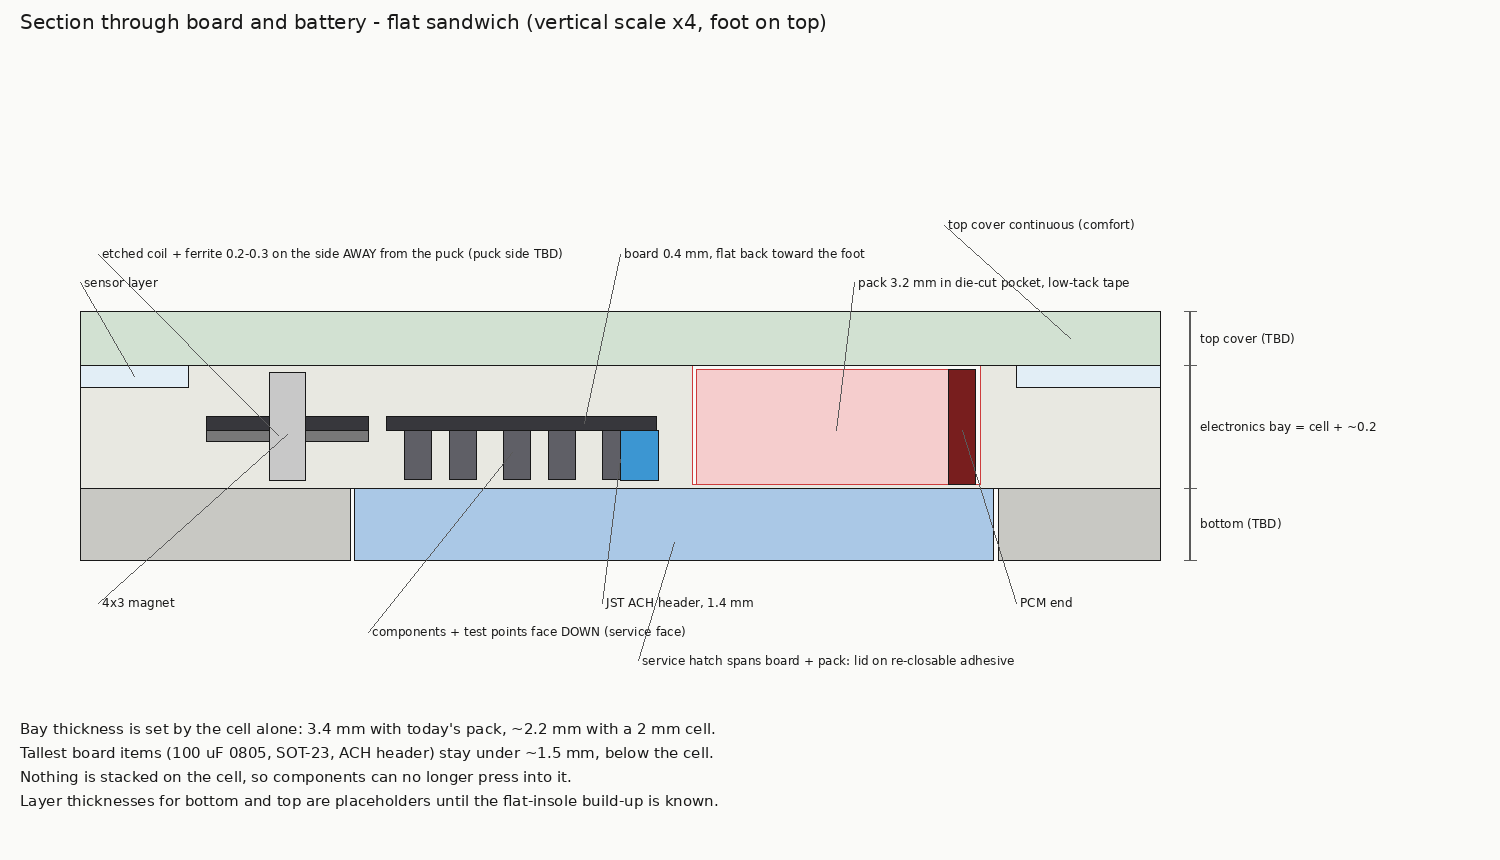
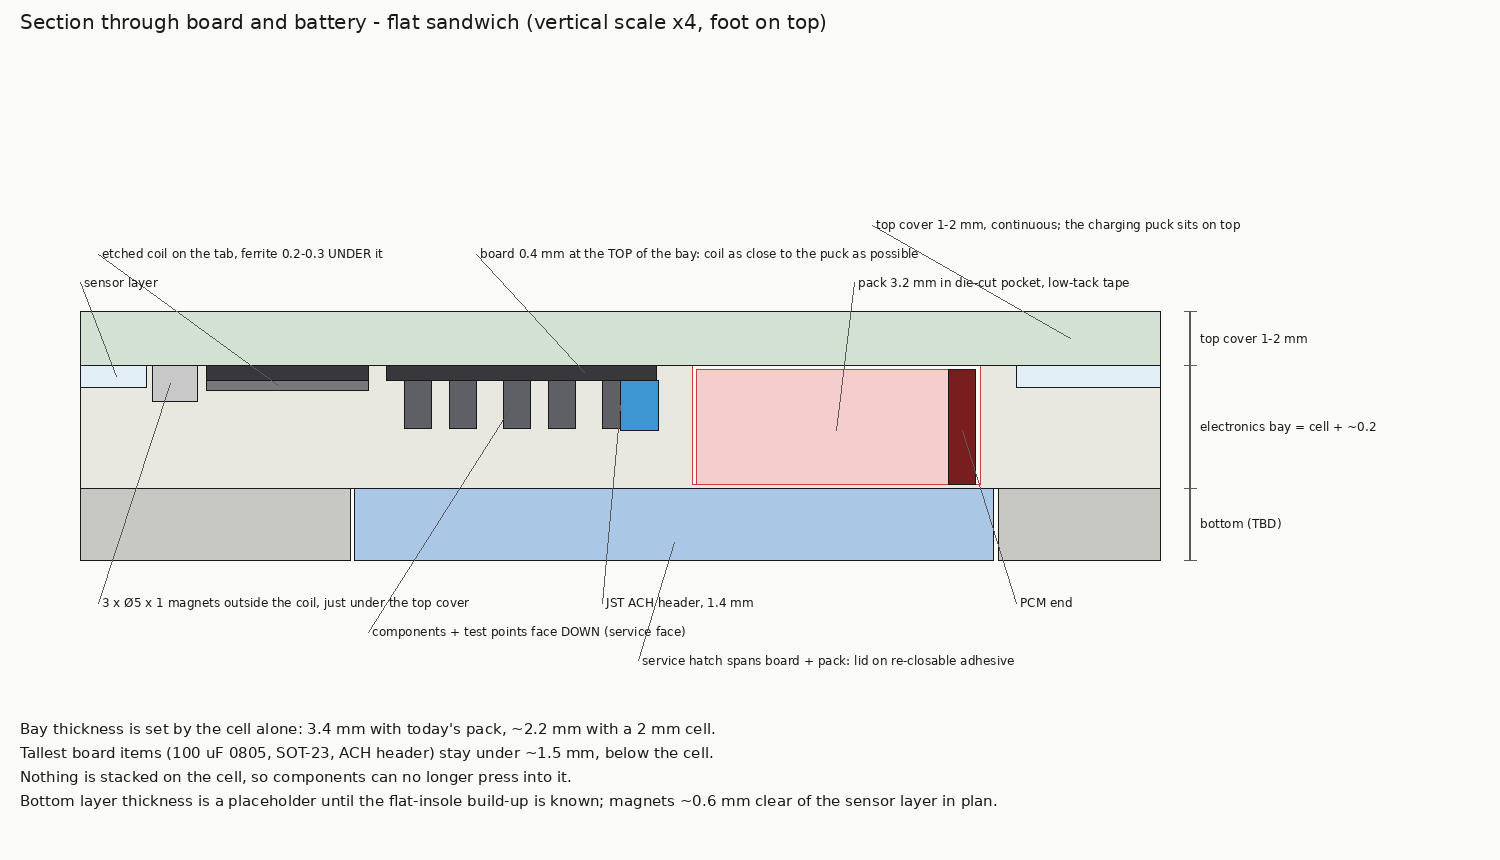
Top charging: magnets at 1-2 mm gap, board at top of bay, charging-speed levers
Puck charges from the top through a 1-2 mm cover (puck magnet flush with
its lid). Ferrite under the coil, board flush under the cover. 3x dia5x1 N52
discs on the free arc give ~1.5x today's pull/centring at 1-2 mm and fit.
Charging speed: the link (~20 mW) is the bottleneck by ~7x; ranked levers,
incl. the etched-coil Q trade-off vs a wound coil bonded to the tab.

Claude-Session: https://claude.ai/code/session_01VVRppXprQDNcYst2JZ14Nv

diff --git a/hardware/r4-kicad/tools/battery_drawings.py b/hardware/r4-kicad/tools/battery_drawings.py
@@ -395,22 +395,24 @@ def section():
     # electronics layer
     rect(0, t_bot, span, t_e, (232, 232, 225))
     # board (service face down) + components
-    rect(34, t_bot + 1.6, 30, 0.4, COL["board"])
+    zb = t_bot + t_e - 0.4                                   # board flush under the top cover
+    rect(34, zb, 30, 0.4, COL["board"])
     for x in (36, 41, 47, 52, 58):
-        rect(x, t_bot + 0.25, 3, 1.35, COL["comp"])
-    rect(60, t_bot + 0.2, 4.3, 1.4, COL["conn"])
+        rect(x, zb - 1.35, 3, 1.35, COL["comp"])
+    rect(60, zb - 1.4, 4.3, 1.4, COL["conn"])
     # pocket + pack
     rect(68, t_bot + 0.1, 32, 3.3, COL["bg"], outline=COL["pocket"])
     rect(68.5, t_bot + 0.1, 31, 3.2, (245, 205, 205), outline=COL["batt"])
     rect(96.5, t_bot + 0.1, 3, 3.2, COL["pcm"])
     # coil tab region (left of board)
-    rect(14, t_bot + 1.6, 18, 0.4, COL["board"])
-    rect(14, t_bot + 1.3, 18, 0.3, (120, 120, 120))
-    rect(21, t_bot + 0.2, 4, 3.0, COL["magnet"])
+    rect(14, zb, 18, 0.4, COL["board"])                    # coil tab (same board), coil on its top copper
+    rect(14, zb - 0.3, 18, 0.3, (120, 120, 120))           # ferrite UNDER the coil
+    rect(8.0, t_bot + t_e - 1.0, 5, 1.0, COL["magnet"])     # magnet discs outside the coil,
+
     # top cover
     rect(0, t_bot + t_e, span, t_top, (210, 225, 210))
     # sensor layer
-    rect(0, t_bot + t_e - 0.6, 12, 0.6, COL["memb"])
+    rect(0, t_bot + t_e - 0.6, 7.4, 0.6, COL["memb"])
     rect(104, t_bot + t_e - 0.6, span - 104, 0.6, COL["memb"])
 
     def note(x, z, text, tx, tz):
@@ -419,20 +421,20 @@ def section():
         dr.line([px, pz, qx, qz], fill=COL["dim"], width=1)
         dr.text((qx + 4, qz - 8), text, fill=COL["text"], font=fs)
 
-    note(60, t_bot + 0.8, "JST ACH header, 1.4 mm", 58, -1.2)
-    note(48, t_bot + 1.0, "components + test points face DOWN (service face)", 32, -2.0)
-    note(56, t_bot + 1.8, "board 0.4 mm, flat back toward the foot", 60, t_bot + t_e + t_top + 1.6)
+    note(60, zb - 0.7, "JST ACH header, 1.4 mm", 58, -1.2)
+    note(48, zb - 0.7, "components + test points face DOWN (service face)", 32, -2.0)
+    note(56, zb + 0.2, "board 0.4 mm at the TOP of the bay: coil as close to the puck as possible", 44, t_bot + t_e + t_top + 1.6)
     note(84, t_bot + 1.6, "pack 3.2 mm in die-cut pocket, low-tack tape", 86, t_bot + t_e + t_top + 0.8)
     note(98, t_bot + 1.6, "PCM end", 104, -1.2)
-    note(23, t_bot + 1.5, "4x3 magnet", 2, -1.2)
-    note(22, t_bot + 1.45, "etched coil + ferrite 0.2-0.3 on the side AWAY from the puck (puck side TBD)", 2, t_bot + t_e + t_top + 1.6)
+    note(10, t_bot + t_e - 0.5, "3 x Ø5 x 1 magnets outside the coil, just under the top cover", 2, -1.2)
+    note(22, zb - 0.15, "etched coil on the tab, ferrite 0.2-0.3 UNDER it", 2, t_bot + t_e + t_top + 1.6)
     note(66, 0.5, "service hatch spans board + pack: lid on re-closable adhesive", 62, -2.8)
-    note(110, t_bot + t_e + t_top / 2, "top cover continuous (comfort)", 96, t_bot + t_e + t_top + 2.4)
-    note(6, t_bot + t_e - 0.3, "sensor layer", 0, t_bot + t_e + t_top + 0.8)
+    note(110, t_bot + t_e + t_top / 2, "top cover 1-2 mm, continuous; the charging puck sits on top", 88, t_bot + t_e + t_top + 2.4)
+    note(4, t_bot + t_e - 0.3, "sensor layer", 0, t_bot + t_e + t_top + 0.8)
 
     # thickness dims
     for z0, z1, txt in ((0, t_bot, "bottom (TBD)"), (t_bot, t_bot + t_e, "electronics bay = cell + ~0.2"),
-                        (t_bot + t_e, t_bot + t_e + t_top, "top cover (TBD)")):
+                        (t_bot + t_e, t_bot + t_e + t_top, "top cover 1-2 mm")):
         x = X0 + span * sx + 30
         dr.line([x, base - z0 * sz, x, base - z1 * sz], fill=COL["dim"], width=2)
         dr.line([x - 6, base - z0 * sz, x + 6, base - z0 * sz], fill=COL["dim"])
@@ -442,7 +444,7 @@ def section():
     for t in ["Bay thickness is set by the cell alone: 3.4 mm with today's pack, ~2.2 mm with a 2 mm cell.",
               "Tallest board items (100 uF 0805, SOT-23, ACH header) stay under ~1.5 mm, below the cell.",
               "Nothing is stacked on the cell, so components can no longer press into it.",
-              "Layer thicknesses for bottom and top are placeholders until the flat-insole build-up is known."]:
+              "Bottom layer thickness is a placeholder until the flat-insole build-up is known; magnets ~0.6 mm clear of the sensor layer in plan."]:
         dr.text((20, yy), t, fill=COL["text"], font=f)
         yy += 24
     return img

diff --git a/HARDWARE_V3_DESIGN_BRIEF.md b/HARDWARE_V3_DESIGN_BRIEF.md
@@ -228,6 +228,29 @@ What it shows:
   - the ferrite sheets, which themselves attract the magnets
   - coupling and eddy-current loss, which need an AC solver: FEMM (axisymmetric), Elmer or GetDP (3D), or Ansys Maxwell
 
+**Charging geometry (user, 2026-10-03):** the puck charges from the **top**, through a 1–2 mm top cover. The puck magnet sits flush with its lid, so the magnet gap is the top cover only. Consequences:
+- The ferrite goes **under** the coil.
+- The board mounts at the **top** of the bay (flat back under the top cover, components hanging down), so the coil is as close to the puck as possible.
+- The magnets sit just under the top cover.
+
+**Magnets at 1–2 mm** (`magnet_sim.json` → `top_cover_gaps_1_to_2mm`):
+- **Recommended: 3 × Ø5 × 1 mm N52 discs** on a 10.5 mm pitch radius. They give about **1.5×** today's pull and centring at 1, 1.5 and 2 mm, fit on the free side (0.6 mm clear of the sensor layer, 7.9 mm from the orthotic edge), and are 2 mm thinner than today's magnet.
+- **Stronger option:** Ø5 × 1.5 discs give about 2.7×, still within the bay height.
+- **Equal option:** 3 × Ø4 × 1 matches today.
+- **Not recommended:** a MagSafe-style ring of tiny blocks only wins at a 1 mm gap, needs 12 parts per side, and does not fit on the sensor-layer side.
+
+**Charging speed.** Today the device charges at ~5 mA (`carbon-circuits-1`), about 15–20 h from flat. The cell can take 35 mA at its standard rate, roughly 2–2.5 h. The wireless link (~20 mW delivered) is the bottleneck by ~7×, not the charger IC. Levers, biggest first:
+
+1. **Coil quality vs the etched-coil plan.** An etched coil has far lower Q (est. 3–5) than the TDK wound coil (≥ 34), so at the same puck drive it will likely deliver *less* power than today.
+   - If faster charging matters, also test a **wound coil bonded flat to the tab with its leads soldered straight onto adjacent tab pads** (no free wire span, potted). That removes the failing wire run while keeping Q.
+   - The coupon test should compare: etched coil (4 layers, maximum copper), bonded TDK, and today's coil.
+2. **Coupling:** coil at the top of the bay under a 1–2 mm cover, ferrite under it, magnets moved out of the coil centre (no eddy loss or ferrite saturation), stronger centring so it lands aligned every time.
+3. **Tuning:** the puck drives at ~189 kHz while each 27.1 µH / 33 nF tank resonates at 168 kHz on its own. Sweep drive frequency and duty on the hardware for maximum received power; this is a firmware change on the puck.
+4. **Rectifier:** today's single-diode half-wave rectifier (D1) with a 5.1 V zener clamp (D2) throws away half the cycle. A full-bridge or voltage-doubler rectifier (Schottky or synchronous) gets more DC from the same coil voltage.
+5. **Puck power and heat:** TX self-heating capped the duty at 25 % (~130 mA from USB). A lower-loss puck coil, a resonant (ZVS) driver instead of hard PWM into the tank, and better heat spreading would allow more drive. USB-C has power to spare.
+6. **Device load while charging (firmware, cheap):** whatever the board draws on the puck comes out of the ~5 mA. Dropping to the lowest-power mode when charging (SEN-64) raises the net charge rate immediately.
+7. **Charge current setting:** once the link delivers more, set ISET for ~35 mA (0.5C, SEN-105). It is a ceiling, not a lever, today.
+
 **Alternative worth a serious look — NFC WLC (13.56 MHz):** purpose-built for etched PCB antennas (only ~1–5 µH needed; PCB Q of 30–60 is easy), with power classes from 250 mW ([NFC Forum WLC](https://nfc-forum.org/build/specifications/wireless-charging/)). The **Renesas PTX30W** listener IC integrates the rectifier *and* a 5–250 mA Li-ion charger + LDO in 1.78 mm² — it would replace the coil, the rectifier chain (D1/D2/C37/C40/C42), *and* the BQ24210 ([Renesas](https://www.renesas.com/en/products/wireless-connectivity/nfc/ptx30w-highly-integrated-scalable-nfc-wlc-listener-i-c-interface-and-board-pmic-ldo)). Cost: the charger puck must be respun around a PTX130W-class poller, and both sides need 13.56 MHz tuning discipline. **If the puck is being redesigned anyway, this is a genuinely strong candidate; if the puck must stay, the retuned 125 kHz PCB spiral is the pragmatic fix.**
 
 ### 4.2 Track B — Flexible / semi-flexible / rigid-flex construction
